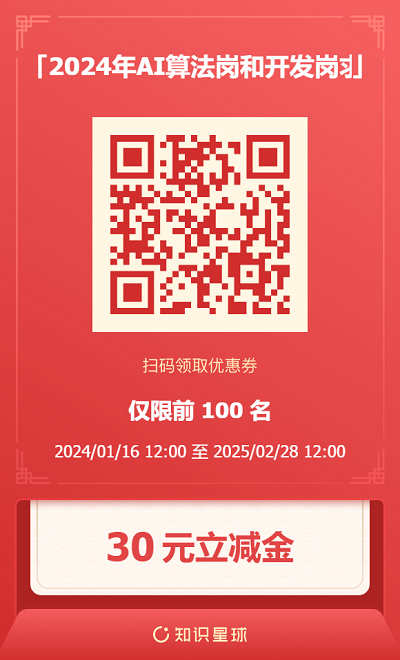
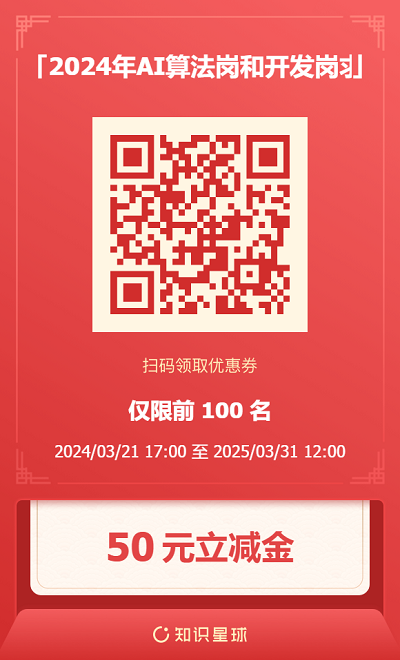
添加：2024年AI算法岗和求职群二维码

diff --git a/README.md b/README.md
@@ -1,11 +1,9 @@
 # AI-Job-Notes
 AI算法岗求职攻略：涵盖校招时间表、准备攻略、刷题指南、内推、AI公司清单和答疑等资料。
 
-AI算法岗方向涉及：深度学习、机器学习、计算机视觉、自然语言处理、图像处理、自动驾驶、元宇宙、AIGC、SLAM等。
+AI算法岗方向涉及：AIGC、大模型、深度学习、机器学习、计算机视觉、自然语言处理、图像处理、自动驾驶、元宇宙、AIGC、SLAM等。
 
-开放岗方向涉及：Java、C/C++、嵌入式等。
-
->  注：如果你看到这篇文章，且有一些疑问或者想提供一些资源，欢迎提交issues！
+开发岗方向涉及：Java、C/C++、Python、Go、嵌入式等。
 
 # 目录
 
@@ -77,7 +75,7 @@ AI算法岗方向涉及：深度学习、机器学习、计算机视觉、自然
 
 详情请戳：[「2024年AI算法岗求职群」](https://mp.weixin.qq.com/s/sK_oSU1PmbUJ5ZGeMmY27A) 
 
-**价格：原199元（每天仅4毛钱），限时立减30！特惠仅169元！**
+**价格：原价199元，限时立减50！特惠仅149元！（每天仅4毛钱）**
 
 **时长：一年（从你加入的时刻算起）**
 
@@ -193,7 +191,7 @@ AI算法岗方向涉及：深度学习、机器学习、计算机视觉、自然
 
 ### 4.3 AI算法岗和开发岗求职群
 
-**价格：原199元（每天仅4毛钱），限时立减30！特惠仅169元！**
+**价格：原价199元，限时立减50！特惠仅149元！（每天仅4毛钱）**
 
 **时长：一年（从你加入的时刻算起）**
 
@@ -217,13 +215,7 @@ AI算法岗方向涉及：深度学习、机器学习、计算机视觉、自然
 
 首先 AI > CV，所以提供CV岗的公司肯定就提供 AI岗。但至于这些公司是否还有 NLP、机器学习、语音识别、推荐算法和 SLAM等岗位，这个需要大家自行去官网进行了解。
 
-荐读：[国内提供计算机视觉(CV)算法岗位的公司名单(含外企和国内公司)](https://github.com/amusi/CV-Company-List )
-
-**北京提供CV算法岗的公司名单**
-
-![](/imgs/Beijing.png)
-
-更多城市信息（上海，深圳，杭州，南京，广州和成都等）详见：https://github.com/amusi/CV-Jobs
+计算机视觉(CV)算法岗位的公司名单详见：https://github.com/amusi/CV-Jobs
 
 <a name="Salary"></a>
 
